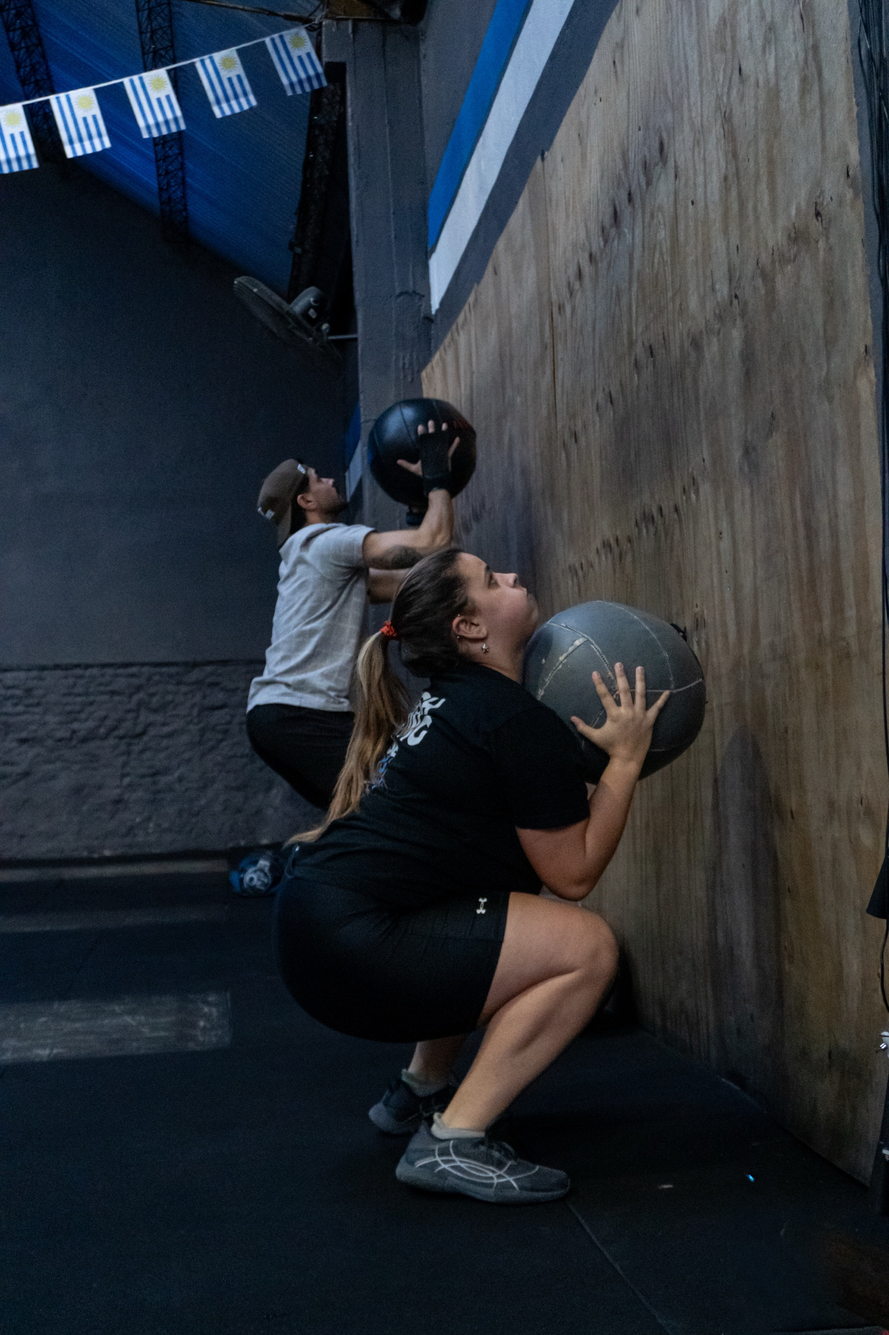
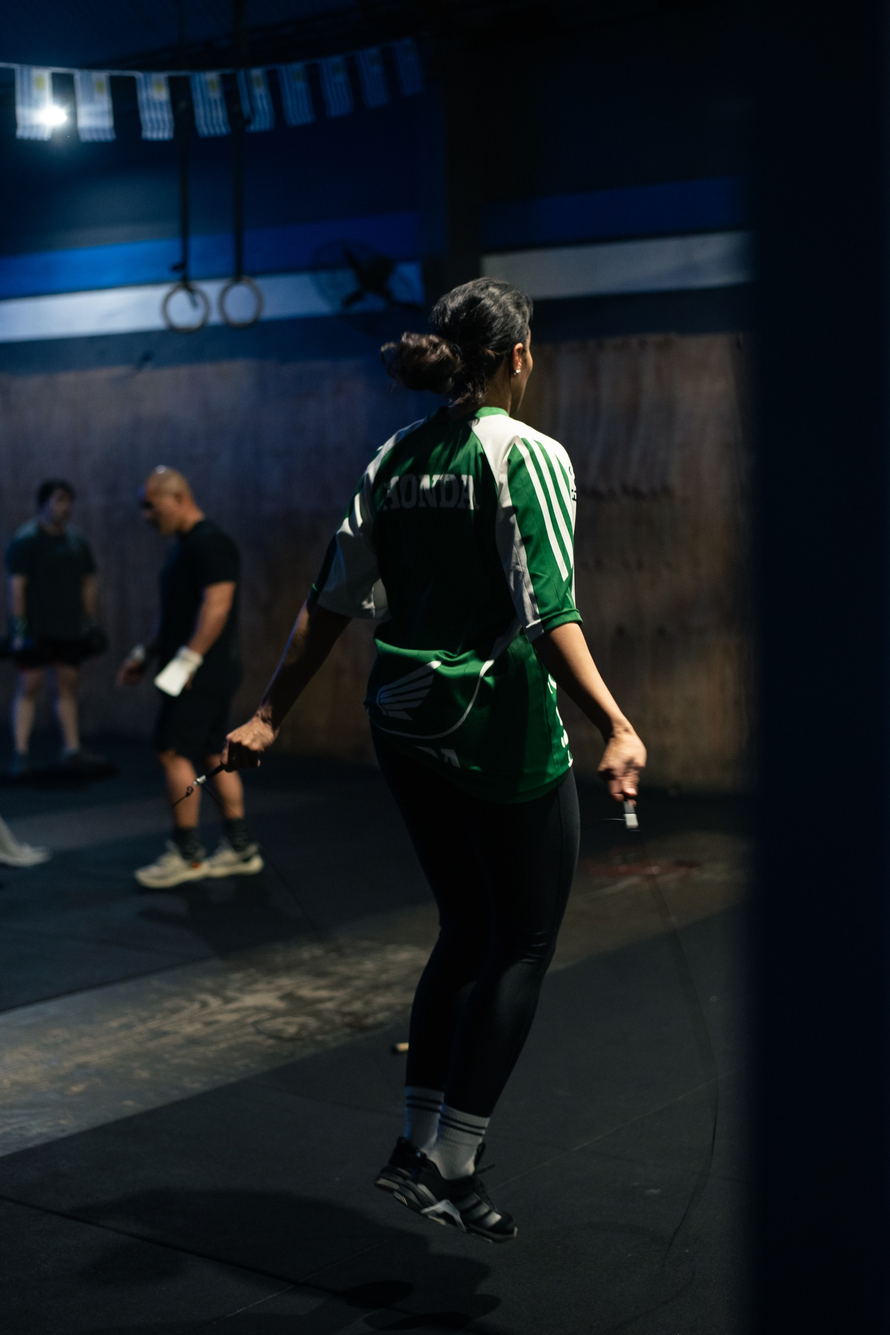
Fix class photo assignment: wallball is Hybrid, not CrossFit
Moves the wallball photo from crossfit-1 to hybrid-2 (alongside the
sled photo), and shifts the rope photo into crossfit-1. crossfit-2 is
now the open slot for a second CrossFit photo.

Claude-Session: https://claude.ai/code/session_01QXkX8WdqWndnTBtzoL7ijV

diff --git a/index.html b/index.html
@@ -110,8 +110,8 @@
 
       <div class="clase-card">
         <div class="clase-photos">
-          <img src="img/crossfit-1.jpg" alt="Clase CrossFit - pelota medicinal">
-          <img src="img/crossfit-2.jpg" alt="Clase CrossFit - soga">
+          <img src="img/crossfit-1.jpg" alt="Clase CrossFit - soga">
+          <img src="img/crossfit-2.jpg" alt="Clase CrossFit">
         </div>
         <div class="name">CrossFit</div>
         <div class="clase-info">
@@ -124,7 +124,7 @@
       <div class="clase-card">
         <div class="clase-photos">
           <img src="img/hybrid-1.jpg" alt="Clase Hybrid - trineo">
-          <img src="img/hybrid-2.jpg" alt="Clase Hybrid - pelota">
+          <img src="img/hybrid-2.jpg" alt="Clase Hybrid - wallball">
         </div>
         <div class="name">Hybrid</div>
         <div class="clase-info">

diff --git a/img/README.md b/img/README.md
@@ -1,13 +1,13 @@
 # Imágenes que faltan
 
-Ya están cargadas: `hero-bg.jpg`, `crossfit-1.jpg`, `crossfit-2.jpg`, `hybrid-1.jpg`, `funcional-1.jpg`, `funcional-2.jpg`.
+Ya están cargadas: `hero-bg.jpg`, `crossfit-1.jpg` (soga), `hybrid-1.jpg` (trineo), `hybrid-2.jpg` (wallball), `funcional-1.jpg` (TRX), `funcional-2.jpg` (remo con mancuerna).
 
 Todavía faltan estos archivos que referencia `index.html`:
 
 | Archivo esperado      | Dónde se usa                                        |
 |------------------------|------------------------------------------------------|
 | `logo.png`             | Logo en la barra de navegación                       |
-| `hybrid-2.jpg`          | Segunda foto de la clase Hybrid                       |
+| `crossfit-2.jpg`        | Segunda foto de la clase CrossFit                     |
 | `cta-final.png`         | Imagen "Challenge your limits" antes de Contacto      |
 
 Hasta que no estén estos archivos, esos espacios van a aparecer como imagen rota al abrir la página en el navegador — el resto del sitio (textos, botones, links, el resto de las fotos) ya funciona igual.
